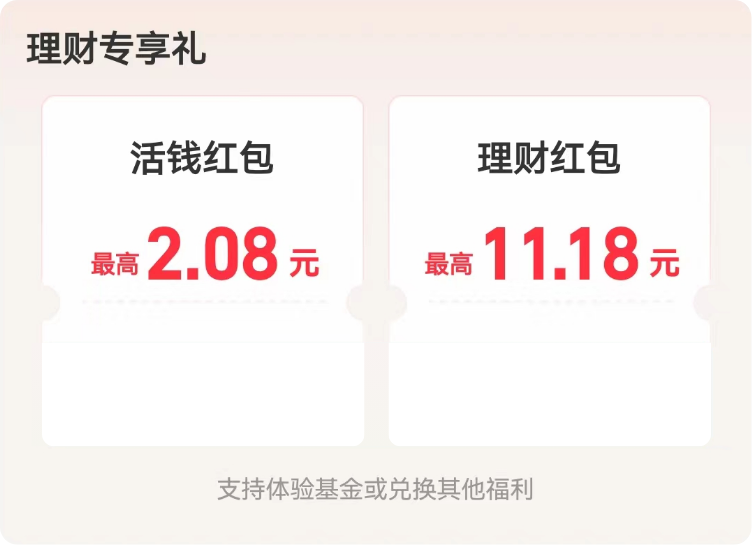
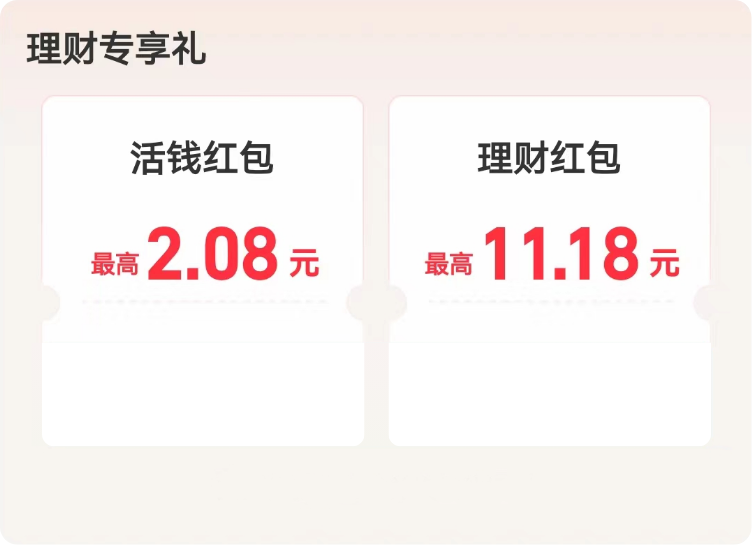
修改样式

Changed region(s): [[0.2753, 0.8734, 0.7035, 0.9358]]

diff --git a/pages/tabBar/component/component.vue b/pages/tabBar/component/component.vue
@@ -29,9 +29,12 @@
 					margin: 30rpx 60rpx 0;
 					color: #fff;
 					position: absolute;
-					bottom: 105rpx;">
+					bottom: 108rpx;">
 					<text>立即领取</text>
 				</button>
+			     <view>
+					<text style="color: #9A9693;font-size: 22rpx;position: absolute;bottom: 80rpx;letter-spacing: 1rpx;">支持体验基金或兑换其他福利</text>
+				 </view>
 			</view>
 			<view class="good-wrapper">
 				<view class="good-header">
@@ -286,8 +289,8 @@
 					text-align: center;
 					.img {
 						width: 43%;
-						margin-left: 6.3vw;
-						margin-right: 4.2vw;
+						margin-left: 6.6vw;
+						margin-right: 4.5vw;
 					}
 				}
 			}

diff --git a/pages/component/licaiLoading/licaiLoading.vue b/pages/component/licaiLoading/licaiLoading.vue
@@ -1,15 +1,18 @@
 <template>
-	<view>
-		<image class="bg" src="@/static/licaiLoading.png" mode="scaleToFill"></image>
+	<view class="wrapper">
+		<image mode='widthFix' class="bg2" src="@/static/licaiLoading.png"></image>
 	</view>
 </template>
 
-<script>
-</script>
 
-<style>
-	.bg{
-		width: 100%;
-		height: 100%;
+<style lang="scss" scoped>
+	.wrapper {
+		width: 95vw;
+		padding: 15rpx 0.2vw;
+		padding-bottom: 2vw;
+		background-color: #F5F5F5;
+	}
+	.bg2{
+		width: 100% !important;
 	}
 </style>
